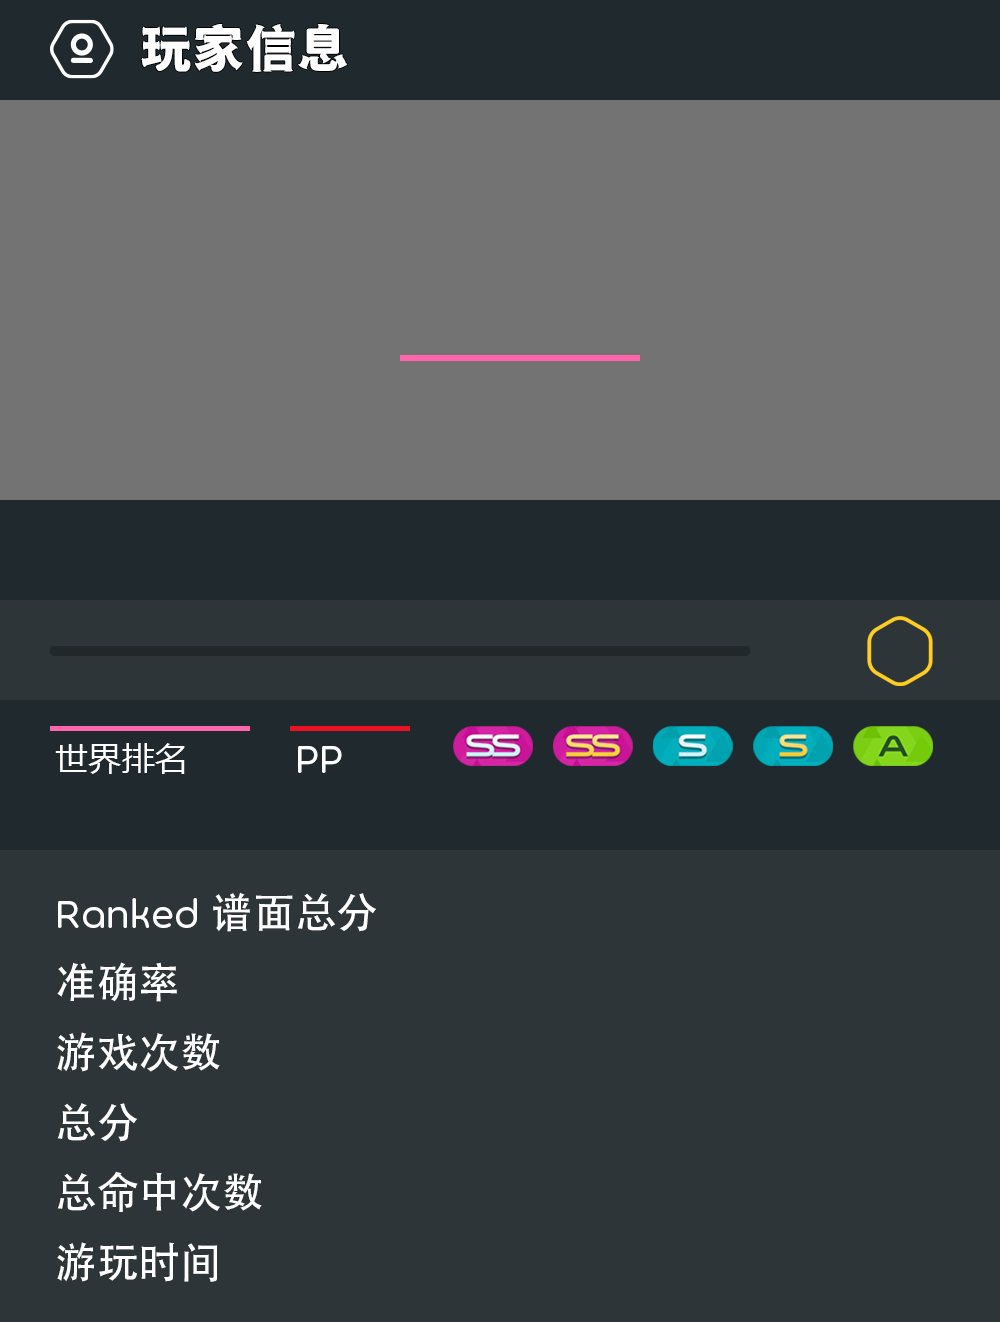
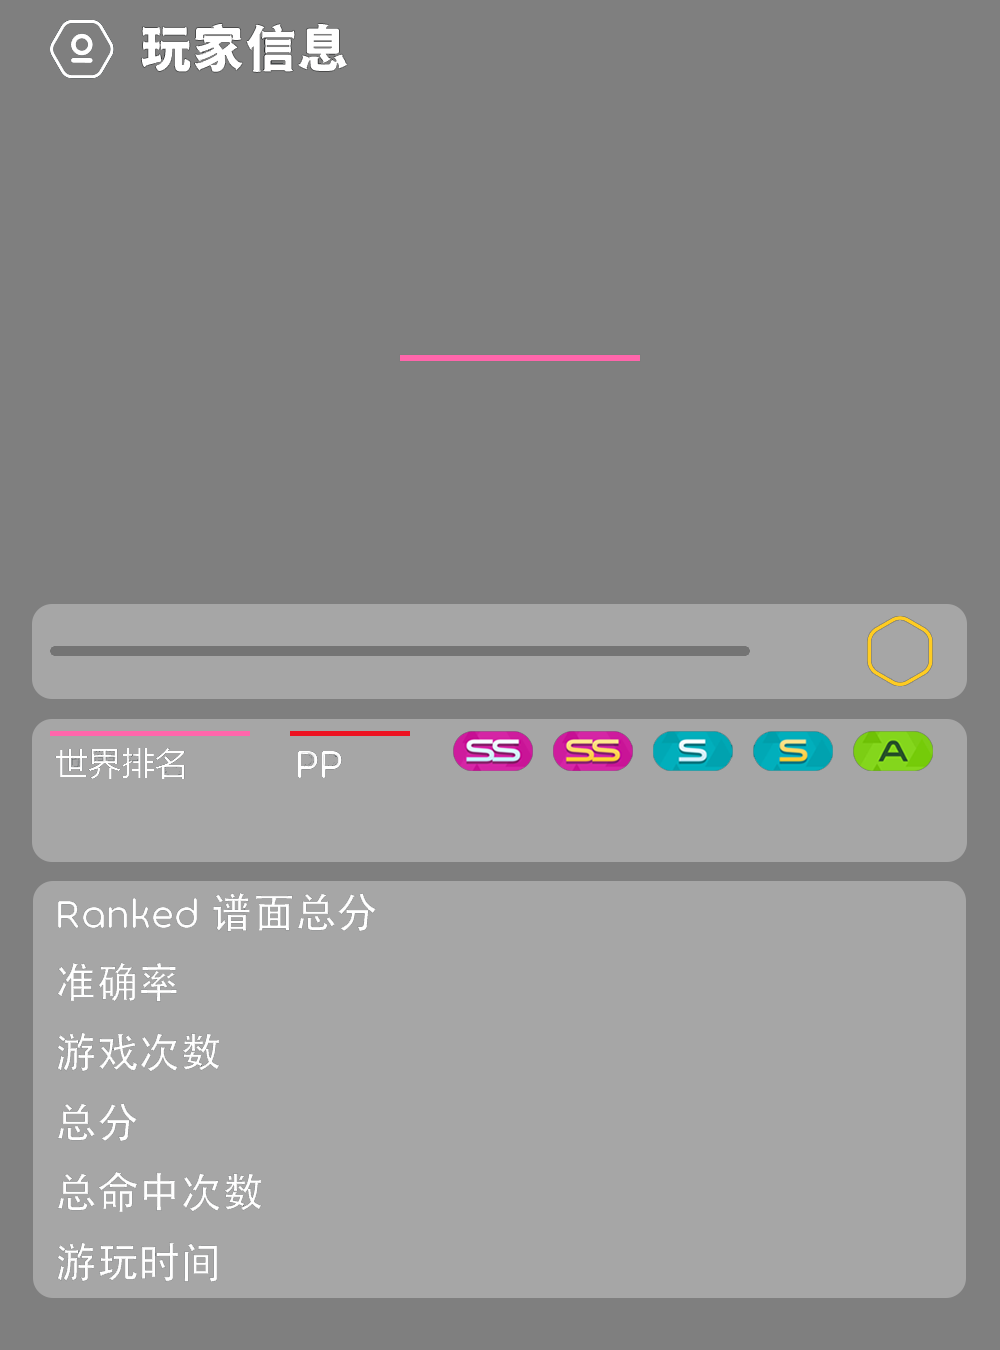
:fire: 精简无用的图片文件

diff --git a/nonebot_plugin_osubot/draw/static.py b/nonebot_plugin_osubot/draw/static.py
@@ -29,7 +29,6 @@ Venera_75 = ImageFont.truetype(str(osufile / "fonts" / "Venera.otf"), 75)
 
 ColorPic = Image.open(osufile / "work" / "color.png").load()
 InfoImg = Image.open(osufile / "info.png").convert("RGBA")
-NewInfoImg = Image.open(osufile / "info_new.png").convert("RGBA")
 SupporterBg = Image.open(osufile / "work" / "suppoter.png").convert("RGBA")
 ExpLeftBg = Image.open(osufile / "work" / "left.png").convert("RGBA")
 ExpCenterBg = Image.open(osufile / "work" / "center.png").convert("RGBA")

diff --git a/nonebot_plugin_osubot/draw/info.py b/nonebot_plugin_osubot/draw/info.py
@@ -95,7 +95,7 @@ async def draw_info(
         path.mkdir()
     country = osufile / "flags" / f"{info.country_code}.png"
     # 底图
-    im.alpha_composite(NewInfoImg)
+    im.alpha_composite(InfoImg)
     # 奖牌
     if info.badges:
         badges_num = len(info.badges)
